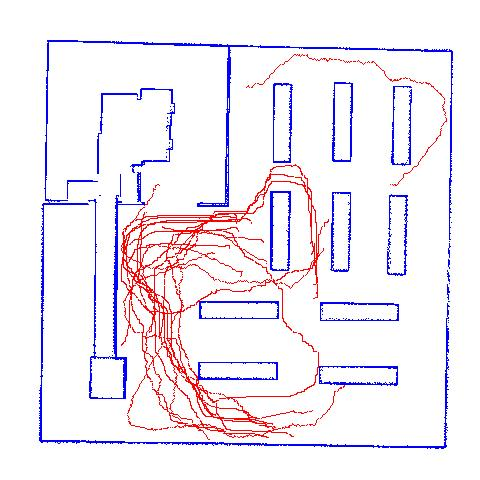
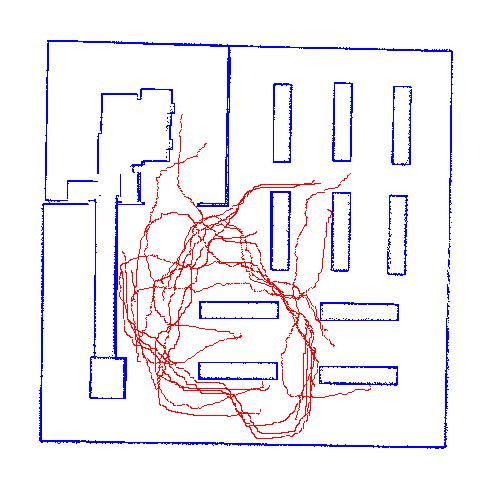
bug fixes

diff --git a/overlay.py b/overlay.py
@@ -1,5 +1,8 @@
 #!/usr/bin/env python
 
+#Ashwin Subramanian, subraash@oregonstate.edu
+#Try and localize robot within known map, starting position not given
+
 import rosbag
 import numpy as np
 import rospy
@@ -32,12 +35,12 @@ class MapInterpolation():
         self.origin_y = -12.0
 
         #Trial Params
-        self.trials = 1
+        self.trials = 10000
         self.variations = 1
 
         ####Display Options 
         self.visualize = False        #output images
-        self.only_start_viz = False   #True = Only starting points, False = Full path
+        self.only_start_viz = False   #starting points vs. full paths
         self.genAlt = False           #compute alternative paths
         self.showOrgPath = False      #display original path
 
@@ -45,9 +48,9 @@ class MapInterpolation():
         self.path_coords = []
         self.map_data = []
         self.map_coords = []
+        self.mcl_coords = []
         self.diff_vectors = []
         self.precise_diff_vectors = []
-        self.mcl_vectors = []
 
         self.map_array = np.zeros((self.map_height, self.map_width), dtype=np.uint8)
         self.bag = rosbag.Bag(self.bag_name + '.bag')
@@ -57,7 +60,7 @@ class MapInterpolation():
         self.binary_array = np.where(self.map_data == 100, 1, 0)
 
         self.readBag()
-        self.generateVectors()
+        self.diff_vectors = self.generateVectors(self.path_coords)
         # self.generatePreciseVectors()
 
         if self.genAlt:
@@ -109,24 +112,30 @@ class MapInterpolation():
             x = pos.__getattribute__('x')
             y = pos.__getattribute__('y')
             self.path_coords.append((y, -x)) #for map
-            self.mcl_vectors.append((-x, y)) #for mcl
+            self.mcl_coords.append((-x, y)) #for mcl
 
-    def generateVectors(self):
+    def generateVectors(self, coordinates):
+
+        coords = coordinates
 
         #original points
-        for x, y in self.path_coords:
+        map_coords = []
+        for x, y in coords:
             map_x = int((x - self.origin_x) / self.resolution)  
             map_y = int((y - self.origin_y) / self.resolution)
-            self.map_coords.append((map_x, map_y))
+            map_coords.append((map_x, map_y))
 
-        self.map_coords = list(dict.fromkeys(self.map_coords))
+        self.map_coords = list(dict.fromkeys(map_coords))
 
         #vectors
+        diff_vectors = []
         for x in range(len(self.map_coords) - 1):
             vector = np.array([self.map_coords[x+1][0] - self.map_coords[x][0], self.map_coords[x+1][1] - self.map_coords[x][1]])
             mag = np.linalg.norm(vector)
             ang = np.arctan2(vector[1], vector[0])
-            self.diff_vectors.append((mag, ang))
+            diff_vectors.append((mag, ang))
+
+        return diff_vectors
         
     def generatePreciseVectors(self):
         adjusted_coords = []
@@ -184,7 +193,7 @@ class MapInterpolation():
     def generateVisuals(self):
 
         colors = {
-            0: (255, 255, 255),       # White
+            0: (255, 255, 255), # White
             1: (255, 0, 0),     # Red
             2: (0, 255, 0),     # Lime
             3: (0, 0, 255),     # Blue
@@ -220,14 +229,19 @@ class MapInterpolation():
 
 class MonteCarlo():
 
-    def __init__(self, num_particles, diff_vectors, obstacles, width, height):
+    def __init__(self, diff_vectors, obstacles, width, height):
         self.particles = []
-        self.num_particles = num_particles
         self.diff_vectors = diff_vectors
         self.obstacles = obstacles
         self.width = width
         self.height = height
 
+        #Params
+        self.num_particles = 1000
+
+        #Display Options
+        self.showSteps = True          #This will generate a new Image every iteration vs. at the end. Keep image 
+        self.start_point_viz = False    #Starting points only
 
     def set_particles(self):
         for _ in range(self.num_particles):
@@ -237,12 +251,15 @@ class MonteCarlo():
             weight = 1.0 / self.num_particles
             self.particles.append(Particle(x, y, theta, weight))
 
-
     def run_mcl(self):
         for mag, ang in self.diff_vectors:
             self.motion_update(mag, ang)
             self.collision_update()
-            self.print_map()
+
+            if not self.particles : return
+            if self.showSteps: self.print_map()
+
+        self.print_map()
             
     def motion_update(self, mag, ang):
         for i in range(len(self.particles)):
@@ -307,20 +324,21 @@ class MonteCarlo():
         for particle in self.particles:
             clr = colors[particle.color]
 
-            mix.putpixel((particle.x, particle.y), clr) #for starting points
+            if self.start_point_viz:    
+                mix.putpixel((particle.x, particle.y), clr) #for starting points
+            else:
+                for p in particle.path: #for path
+                    x = p[0]
+                    y = p[1]
 
-            # for p in particle.path: #for path
-            #     x = p[0]
-            #     y = p[1]
-
-            #     if 0 <= x < self.width and 0 <= y < self.height:
-            #         mix.putpixel((x, y), clr)
+                    if 0 <= x < self.width and 0 <= y < self.height:
+                        mix.putpixel((x, y), clr)
         
         mix.save('mcl.jpeg')
 
 if __name__ == '__main__':
     map = MapInterpolation()
-    mc = MonteCarlo(10000, map.diff_vectors, map.binary_array, map.map_width, map.map_height)
+    mc = MonteCarlo(map.generateVectors(map.mcl_coords), map.binary_array, map.map_width, map.map_height)
     mc.set_particles()
     mc.run_mcl()
 

diff --git a/map.py b/map.py
@@ -1,5 +1,8 @@
 #!/usr/bin/env python
 
+#Ashwin Subramanian, subraash@oregonstate.edu
+#Generate a CSV file representing the map / obstacles as 1s and empty space as 0s
+
 import rospy
 from nav_msgs.msg import OccupancyGrid
 from nav_msgs.msg import MapMetaData
@@ -7,21 +10,31 @@ import csv
 import numpy as np
 import pandas as pd
 
-def map_callback(data):
-    # map_data = data.data
-    map_info = data.info
-    map_array = np.array(data.data, dtype=np.int8).reshape(480, 480)
-    df = pd.DataFrame(map_array)
-    df.to_csv('map_data.csv', index=False)
-    print("done")
+class Map():
 
+    def __init__(self):
+        self.width = 0
+        self.height = 0
 
-def map_mmd_callback(data):
-    print(data)
+    def map_callback(self, data):
+        # map_data = data.data
+        map_info = data.info
+        map_array = np.array(data.data, dtype=np.int8).reshape(self.width, self.height)
+
+        df = pd.DataFrame(map_array)
+        df.to_csv('map_data.csv', index=False)
+
+        print("done", self.width, self.height)
+
+    def map_mmd_callback(self, data):
+        self.width = int(data.__getattribute__('width'))
+        self.height = int(data.__getattribute__('height'))
+        print(data)
 
 if __name__ == '__main__':
     rospy.init_node('map_subscriber')
+    m = Map()
 
-    rospy.Subscriber('/map', OccupancyGrid, map_callback)
-    rospy.Subscriber('/map_metadata', MapMetaData, map_mmd_callback)
+    rospy.Subscriber('/map_metadata', MapMetaData, m.map_mmd_callback)
+    rospy.Subscriber('/map', OccupancyGrid, m.map_callback)
     rospy.spin()

diff --git a/README.md b/README.md
@@ -14,4 +14,7 @@ These scripts work with any ros simulation enviorment where the robot is publish
 
     Run "python3 map.py" while simulation is open. Map parameters and obstacle csv will be generated. Crtl + C after "done" output
 
-    Run "python3 overlay.py" for full paths and/or mcl visualization
+    Run "python3 overlay.py" for full paths and/or mcl visualization. Tweak parameters as neccesary.
+
+ - *If using a different map than the example, Don't forget to change the readbag() function to change the topic and/or the data structure to get the position.
+ - *Check "Display Options" and Params to configure trials as desired for either class.
